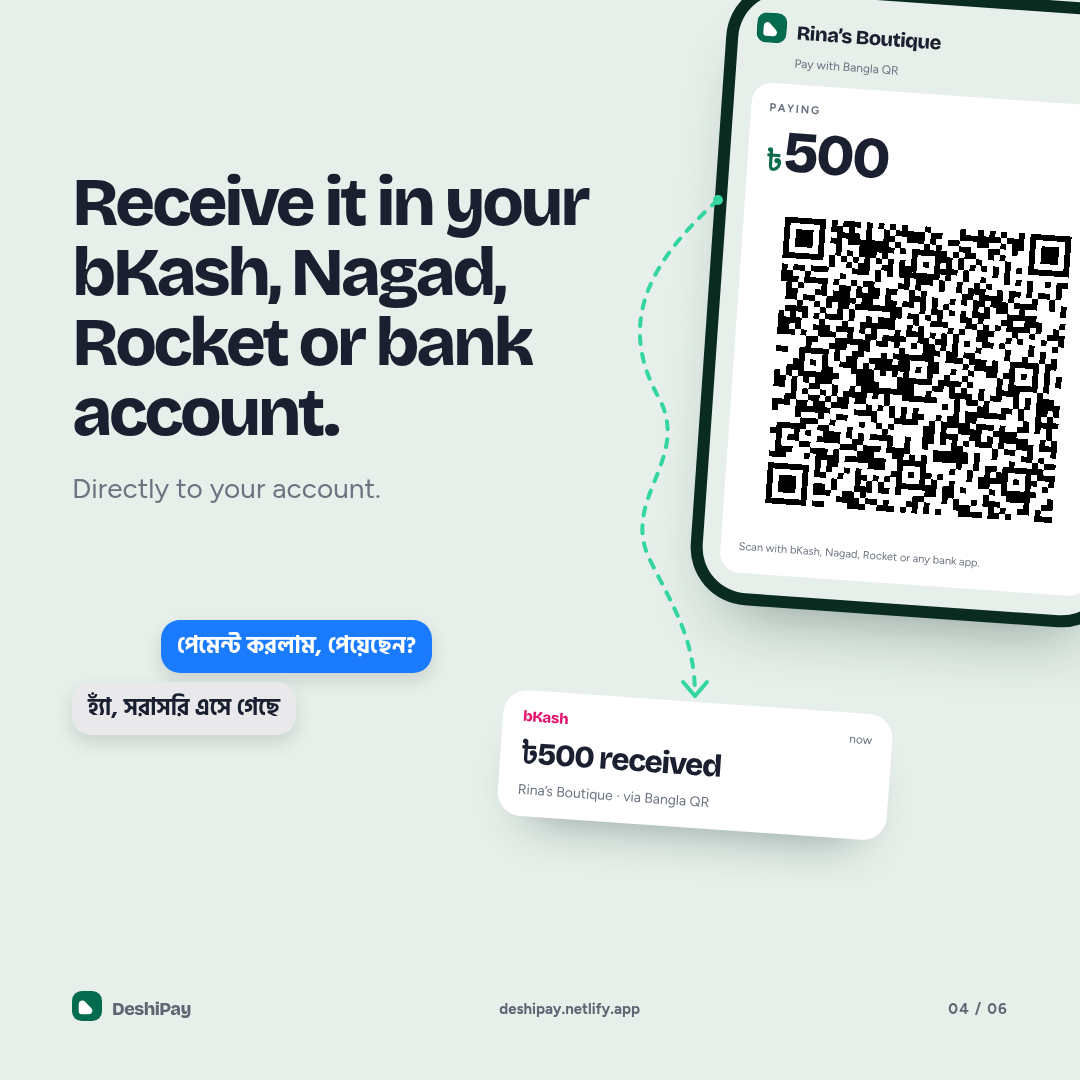
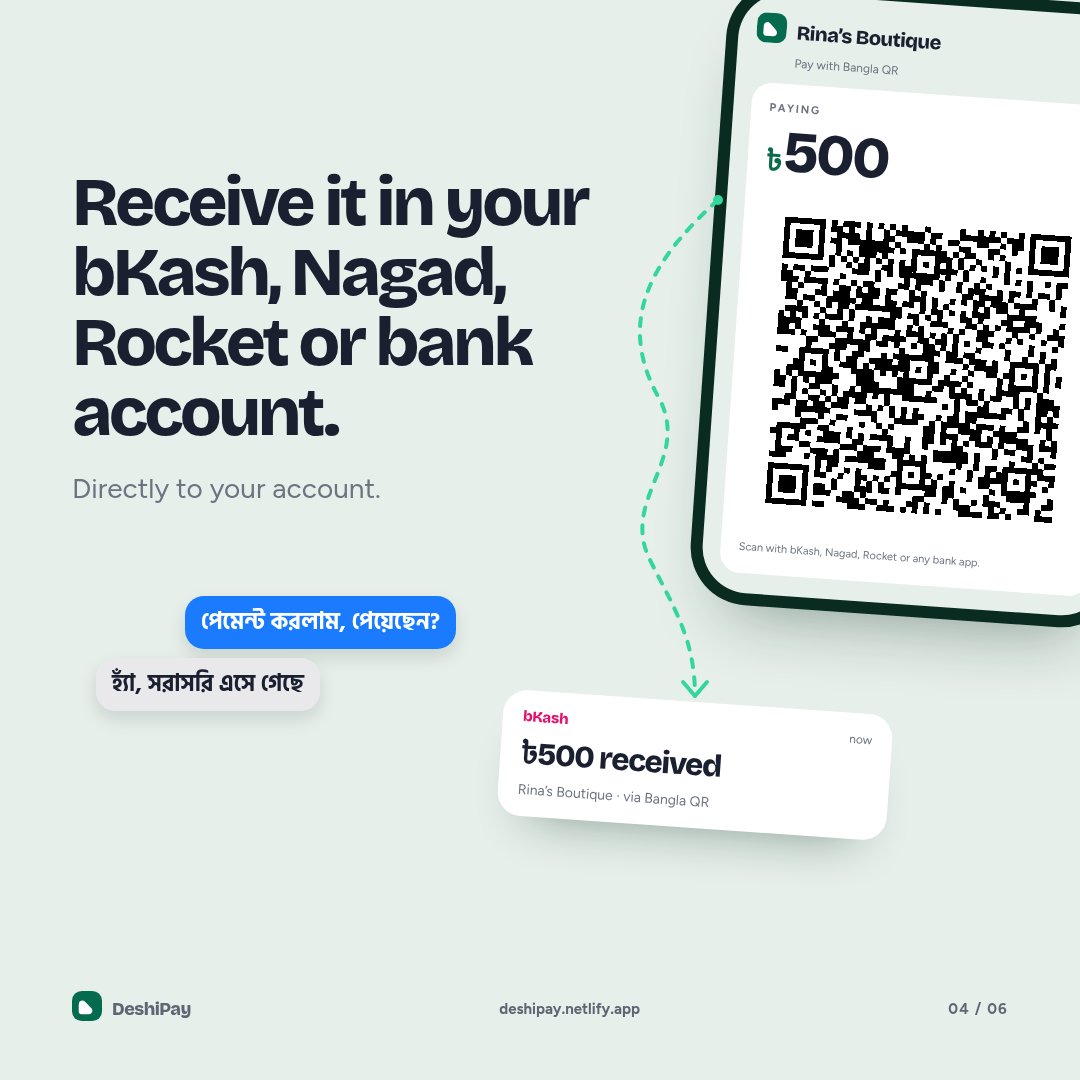
design(page4): nudge chat up and right

Changed region(s): [[0.0611, 0.55, 0.4278, 0.6722]]

diff --git a/promotionals/social/source/social.html b/promotionals/social/source/social.html
@@ -94,7 +94,7 @@
   .pay-amount span { color:#0B6B4A; font-size:29px; }
   .s4-phone .qrbox { border-radius:0; }
   .pay-note { margin:10px 0 0; color:#6B7480; font-size:11px; line-height:1.45; }
-  .s4-chat { position:absolute; z-index:6; left:72px; top:620px; width:360px; }
+  .s4-chat { position:absolute; z-index:6; left:96px; top:596px; width:360px; }
   .s4-msg { width:max-content; max-width:100%; margin:0; padding:11px 16px; border-radius:19px; font-family:"Hind Siliguri","Noto Sans Bengali",sans-serif; font-weight:700; font-size:23px; line-height:1.35; box-shadow:0 8px 18px rgba(0,0,0,.12); }
   .s4-msg.ask { margin-left:auto; background:#1A7BFF; color:#fff; }
   .s4-msg.answer { margin-top:9px; background:#E9E9EB; color:#1A2030; }
